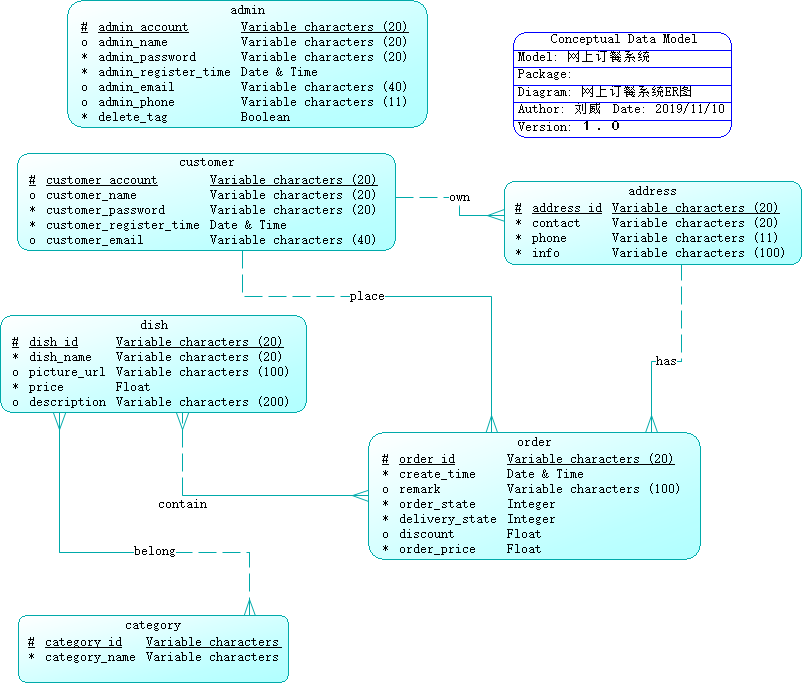
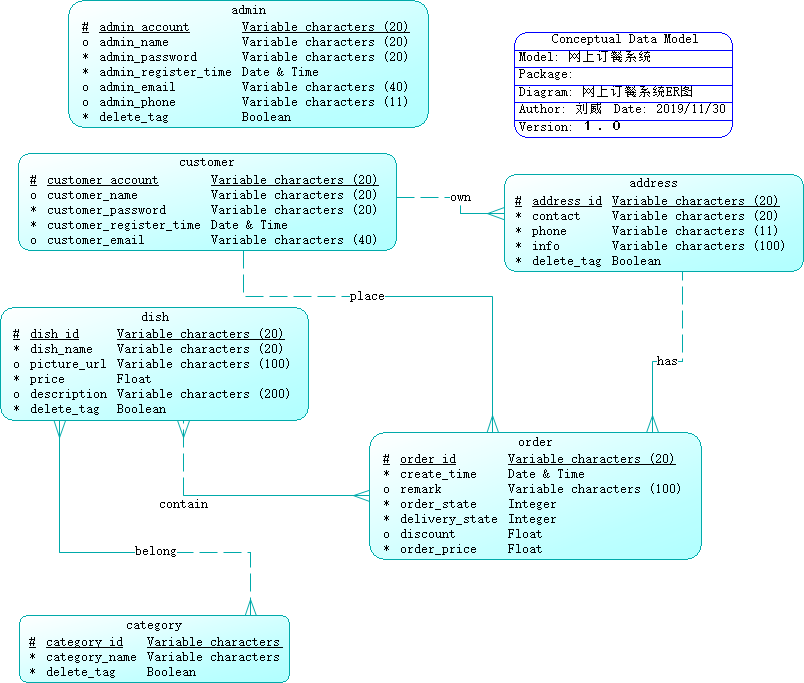
修复了顾客端bug，更新了ER图和数据库

diff --git a/web/resources/css/style.css b/web/resources/css/style.css
@@ -1138,6 +1138,29 @@ span.actual1 {
 .btn_form form input[type="submit"]:hover {
 	background:#F34D28;
 }
+.btn_form a input[type="button"] {
+	cursor: pointer;
+	border: none;
+	outline: none;
+	display: inline-block;
+	font-size: 0.85em;
+	padding: 10px 34px;
+	background:#fe6847;
+	border-bottom: 4px solid #E94F2D;
+	color: #FFF;
+	text-transform: uppercase;
+	-webkit-transition: all 0.3s ease-in-out;
+	-moz-transition: all 0.3s ease-in-out;
+	-o-transition: all 0.3s ease-in-out;
+	transition: all 0.3s ease-in-out;
+	border-radius: 5px;
+	-webkit-border-radius: 5px;
+	-moz-border-radius: 5px;
+	-o-border-radius: 5px;
+}
+.btn_form a input[type="button"]:hover {
+	background:#F34D28;
+}
 .btn_form form a input[type="button"] {
 	cursor: pointer;
 	border: none;

diff --git a/src/ordering/repository/jdbc/JdbcCategoryRepository.java b/src/ordering/repository/jdbc/JdbcCategoryRepository.java
@@ -5,7 +5,6 @@ import ordering.domain.Dish;
 import ordering.repository.CategoryRepository;
 import ordering.utils.CategoryDishSupport;
 import org.springframework.beans.factory.annotation.Autowired;
-import org.springframework.jdbc.core.BeanPropertyRowMapper;
 import org.springframework.jdbc.core.JdbcTemplate;
 import org.springframework.jdbc.core.RowMapper;
 import org.springframework.stereotype.Repository;
@@ -43,7 +42,7 @@ public class JdbcCategoryRepository implements CategoryRepository {
 
     @Override
     public boolean isInDB(String category_name) {
-        return jdbcTemplate.queryForObject(TOTAL_CATEGORY + " and category_name=" + category_name, Integer.class) != 0;
+        return jdbcTemplate.queryForObject(TOTAL_CATEGORY + " and category_name=\'" + category_name + "\'", Integer.class) != 0;
     }
 
     @Override
@@ -75,21 +74,21 @@ public class JdbcCategoryRepository implements CategoryRepository {
     @Override
     public Category deleteCategoryById(String category_id) {
         Category deletedCategory = getCategoryById(category_id);
-        jdbcTemplate.update(DELETE_CATEGORY + " and category_id=" + category_id);
+        jdbcTemplate.update(DELETE_CATEGORY + " where category_id=\'" + category_id + "\'");
         return deletedCategory;
     }
 
     @Override
     public Category deleteCategoryByName(String category_name) {
         Category deletedCategory = getCategoryById(category_name);
-        jdbcTemplate.update(DELETE_CATEGORY + " and category_name=" + category_name);
+        jdbcTemplate.update(DELETE_CATEGORY + " where category_name=\'" + category_name + "\'");
         return deletedCategory;
     }
 
     @Override
     public Category deleteCategory(Category category) {
         Category deletedCategory = getCategoryById(category.getCategory_id());
-        jdbcTemplate.update(DELETE_CATEGORY + " and category_id=" + category.getCategory_id());
+        jdbcTemplate.update(DELETE_CATEGORY + " where category_id=\'" + category.getCategory_id() + "\'");
         return deletedCategory;
     }
 

diff --git a/src/ordering/repository/jdbc/JdbcOrderItemRepository.java b/src/ordering/repository/jdbc/JdbcOrderItemRepository.java
@@ -26,7 +26,7 @@ public class JdbcOrderItemRepository implements OrderItemRepository {
     }
     @Override
     public int getTotalOrderItem(String order_id) {
-        return jdbcTemplate.queryForObject(TOTAL_ORDER_ITEM+" where order_id ="+order_id,Integer.class);
+        return jdbcTemplate.queryForObject(TOTAL_ORDER_ITEM + " where order_id =\'" + order_id + "\'", Integer.class);
     }
 
     @Override
@@ -42,7 +42,7 @@ public class JdbcOrderItemRepository implements OrderItemRepository {
 
     @Override
     public List<OrderItem> itemsOfOrder(String order_id) {
-        return jdbcTemplate.query(SELECT_ORDER_ITEM+"where order_id = "+order_id,item);
+        return jdbcTemplate.query(SELECT_ORDER_ITEM + "where order_id = \'" + order_id + "\'", item);
     }
 
     @Override

diff --git a/src/ordering/repository/jdbc/JdbcAddressRepository.java b/src/ordering/repository/jdbc/JdbcAddressRepository.java
@@ -37,7 +37,7 @@ public class JdbcAddressRepository implements AddressRepository {
 
     @Override
     public List<Address> getCustomerAddress(String customer_account) {
-        return jdbcTemplate.query(SELECT_ADDRESS+" where customer_account ="+customer_account+" and delete_tag = 0",addressRowMapper);
+        return jdbcTemplate.query(SELECT_ADDRESS + " where customer_account =\'" + customer_account + "\' and delete_tag = 0", addressRowMapper);
     }
 
     @Override

diff --git a/src/ordering/utils/ShoppingCart.java b/src/ordering/utils/ShoppingCart.java
@@ -64,7 +64,7 @@ public class ShoppingCart {
             ShoppingCartItem shoppingCartItem = shoppingCartItemList.get(i);
             if (shoppingCartItem.getDish().getDish_id().equals(dish_id)) {
                 shoppingCartItemList.remove(i);
-                totalPrice -= shoppingCartItem.getDish().getPrice();
+                totalPrice -= shoppingCartItem.getDish().getPrice() * shoppingCartItem.getAmount();
                 return;
             }
         }
